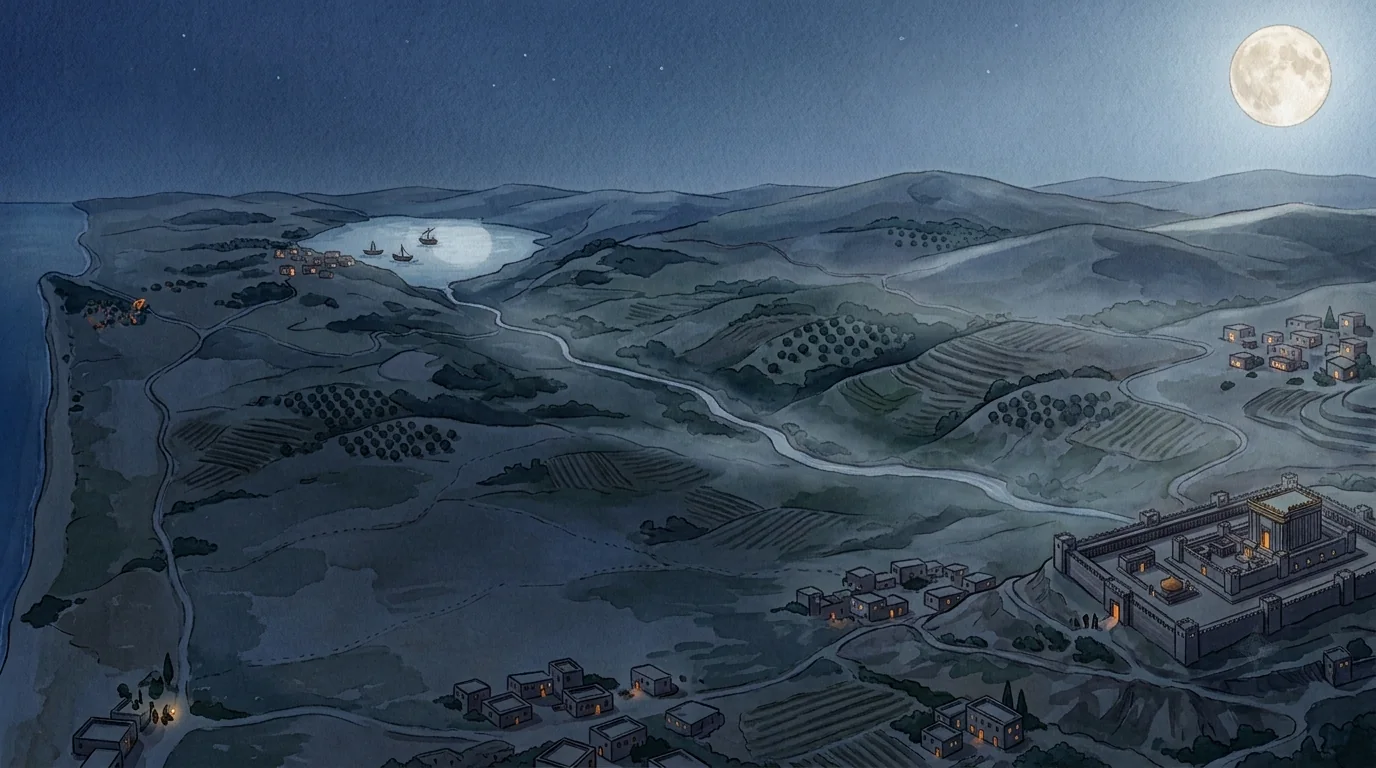
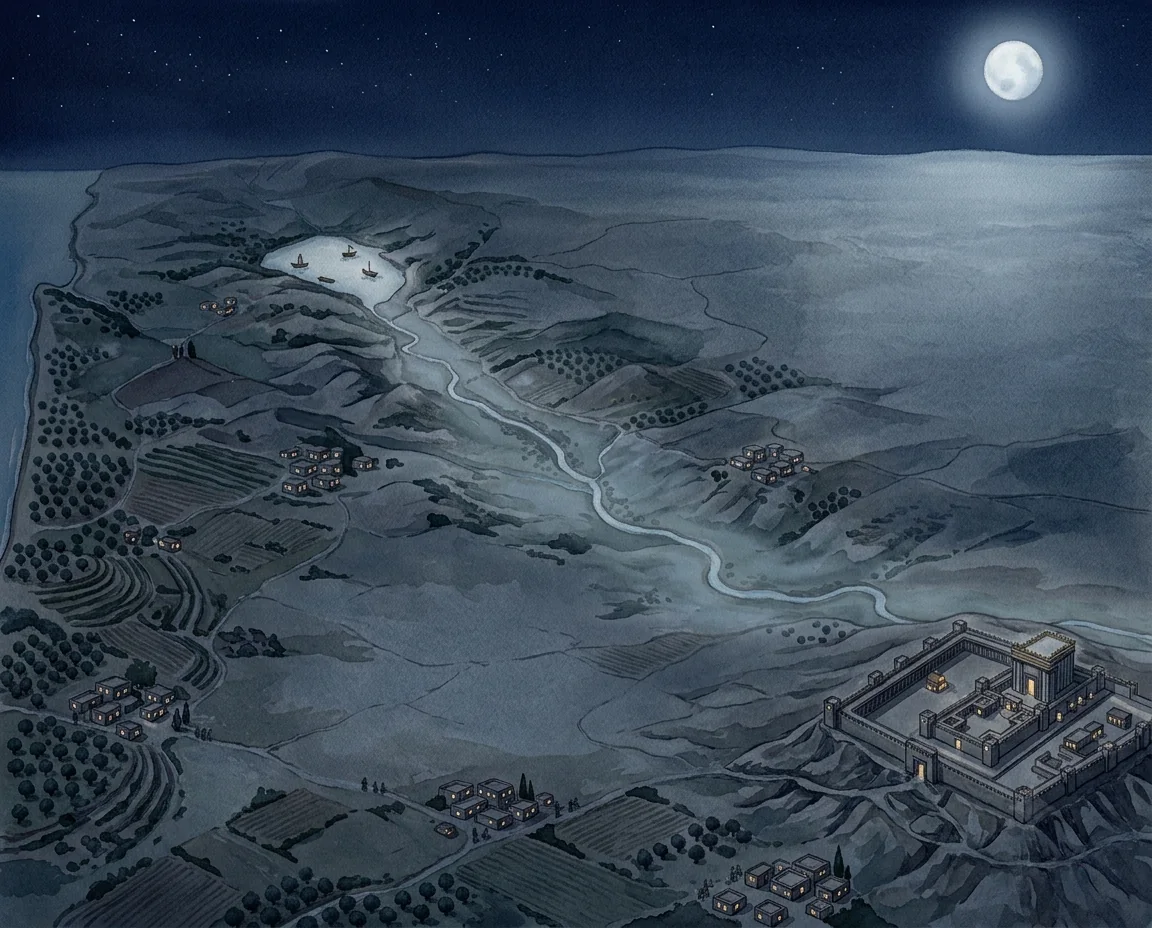
바이블퀘스트pc배경

diff --git a/frontend/src/pages/Bluemarble/quest.css b/frontend/src/pages/Bluemarble/quest.css
@@ -103,10 +103,10 @@
     background-blend-mode: multiply;
     min-height: var(--qj-view);
     box-shadow: 0 1px 0 rgba(255, 255, 255, 0.5) inset, 0 18px 40px -28px rgba(60, 45, 20, 0.45);
-    --qj-ground: #eadcbf;
+    --qj-ground: #e2cf9f;
   }
   [data-theme='dark'] .qj {
-    --qj-ground: #333f4f;
+    --qj-ground: #2c3b42;
     background: url('../../assets/atlas/parchment-night.webp') center top / 768px auto repeat, var(--qj-ground);
     background-blend-mode: soft-light;
     box-shadow: 0 1px 0 rgba(255, 255, 255, 0.06) inset, 0 18px 40px -28px rgba(0, 0, 0, 0.7);
@@ -121,15 +121,16 @@
     margin: -18px -16px calc(-1 * var(--qj-view) + 18px);
     pointer-events: none;
   }
-  /* 그림 폭 = min(카드를 덮는 폭, max(카드 폭, 원본 1376px)) —
+  /* PC 지도는 5:4(1152×928) — 카드 비율(약 1.2:1)에 맞춰 다시 그렸다.
+     그림 폭 = min(카드를 덮는 폭, max(카드 폭, 원본 1152px)) —
      좁은 창은 덮되 원본보다 키우지 않고, 넓은 모니터는 폭에 맞춰 1배 언저리에서 멈춘 뒤 아래를 땅 색으로 번지게 */
   .qj-backdrop::before {
     content: '';
     position: absolute;
     top: 0;
     left: 50%;
-    width: min(max(100%, calc(var(--qj-view) * 1376 / 768)), max(100%, 1376px));
-    aspect-ratio: 1376 / 768;
+    width: min(max(100%, calc(var(--qj-view) * 1152 / 928)), max(100%, 1152px));
+    aspect-ratio: 1152 / 928;
     transform: translateX(-50%);
     background: var(--qj-bg) center / cover no-repeat;
     -webkit-mask-image: linear-gradient(to bottom, #000 84%, transparent 100%);
